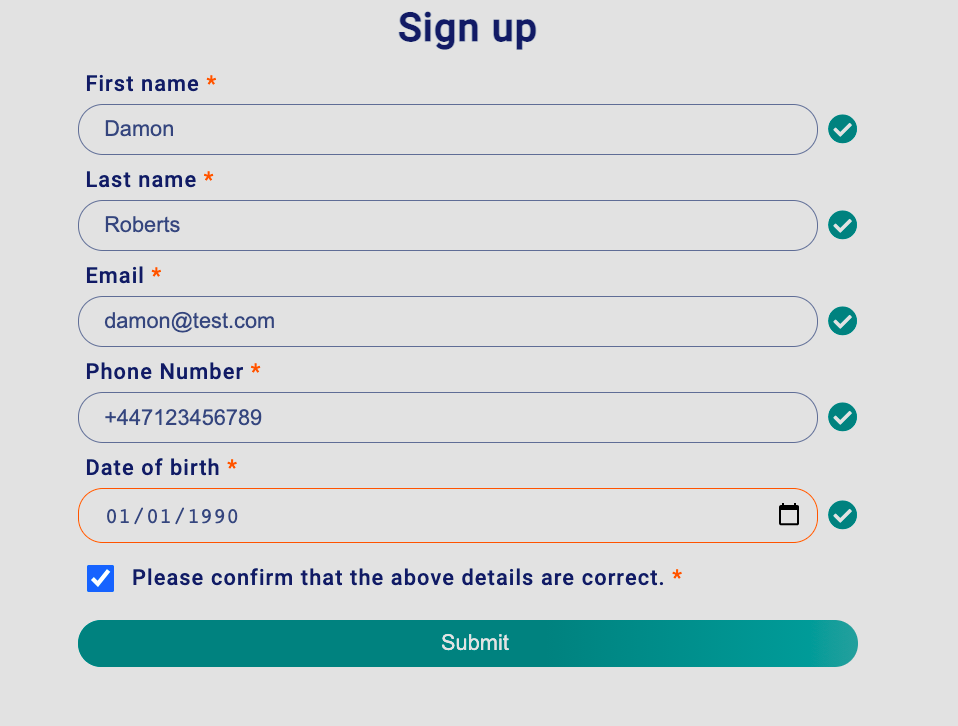
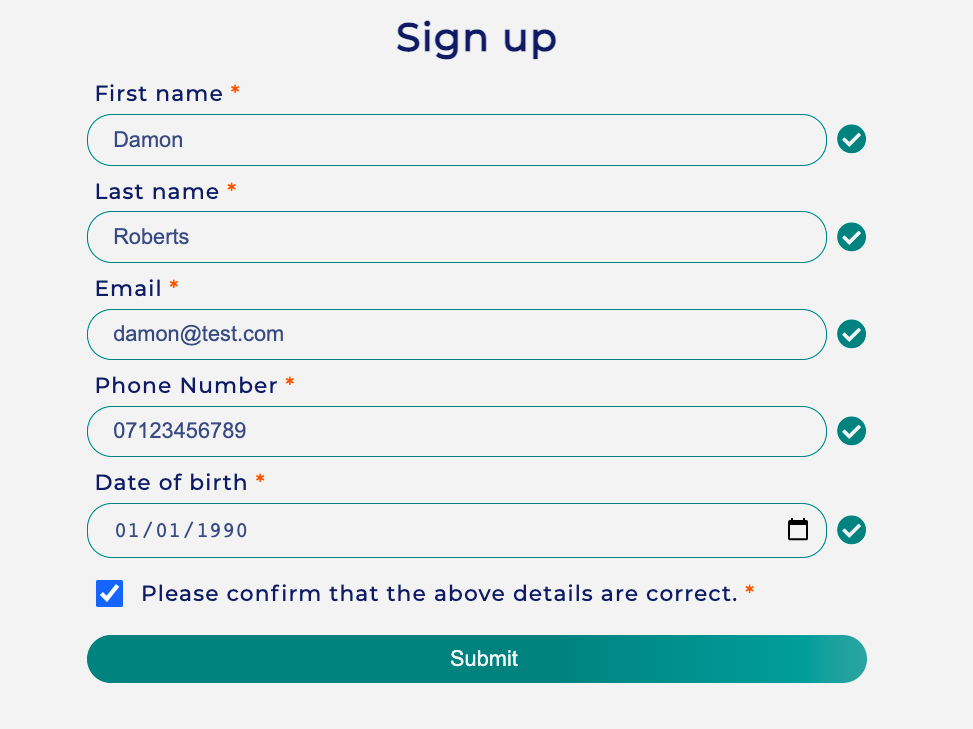
add border color for valid

diff --git a/src/components/form/form.js b/src/components/form/form.js
@@ -105,6 +105,18 @@ const Form = (props) => {
     return final;
   }
 
+  const checkValidValue = (el) => {
+    let successClass;
+    if (valid[el] === "tick") {
+      successClass = "border-green"
+    } else if (valid[el] === "cross") {
+      successClass = "border-red"
+    } else {
+      successClass = null;
+    }
+    return successClass;
+  }
+
   const displayForm = FormContent.map((e, i) => {
     return (
       <Fr key = {i}>
@@ -121,6 +133,7 @@ const Form = (props) => {
           valid = {valid[e.element]}
           focusOut = {() => checkValidity(e.element)}
           alertContent = {handleAlertContent(e.title)}
+          validClass = {checkValidValue(e.element)}
         />
       </Fr>
     );

diff --git a/src/css/index.scss b/src/css/index.scss
@@ -1,5 +1,6 @@
 // Fonts
-@import url('https://fonts.googleapis.com/css2?family=Nunito+Sans:wght@300&family=Roboto:wght@500&display=swap');
+@import url('https://fonts.googleapis.com/css2?family=Dosis:wght@300&family=Montserrat:wght@500&display=swap');
+@import url('https://fonts.googleapis.com/css2?family=Inter:wght@700&display=swap');
 
 // Variables
 @import "variables/colors.scss";
@@ -14,6 +15,7 @@
 
 html {
   font-size: 11px;
+  letter-spacing: 1.2px;
 }
 
 @media (max-width: 1200px) {

diff --git a/src/components/form/form-type.js b/src/components/form/form-type.js
@@ -7,7 +7,7 @@ const FormType = (props) => {
       <label htmlFor={props.for} aria-required>{props.label}<span className="sign-up-form-required"> *</span></label>
       <div className="form-input">
         <input
-          className={`${props.activeClass}`}
+          className={`${props.activeClass} ${props.validClass}`}
           placeholder={props.placeholder}
           type={props.type} 
           name={props.name} 

diff --git a/src/css/components/form/form.scss b/src/css/components/form/form.scss
@@ -14,6 +14,14 @@
       border: 2px solid $danger;
     }
 
+    .border-green {
+      border: 2px solid $secondary;
+    }
+
+    .border-red {
+      border: 2px solid $warning;
+    }
+
     &-required {
       color: $danger;
     }

diff --git a/src/css/variables/fonts.scss b/src/css/variables/fonts.scss
@@ -1,2 +1,3 @@
-$text-font: 'Nunito Sans', sans-serif;
-$headers-font: 'Roboto', sans-serif;
+$text-font: 'Dosis', sans-serif;
+$headers-font: 'Montserrat', sans-serif;
+$third-font: 'Inter', sans-serif;

diff --git a/src/css/variables/colors.scss b/src/css/variables/colors.scss
@@ -1,6 +1,6 @@
-$bg-color: #E2E2E2;
+$bg-color: #f3f3f3;
 $primary: #0A2463;
 $secondary: #107E7D;
 $third: #50808E;
 $danger: #F26419;
-$warning: rgb(255, 146, 146);
+$warning: rgb(255, 83, 83);

diff --git a/src/css/components/alerts/alert.scss b/src/css/components/alerts/alert.scss
@@ -7,7 +7,7 @@
   margin-bottom: 1rem;
   
   p {
-    font-family: Arial, Helvetica, sans-serif;
+    font-family: $third-font;
     font-weight: 700;
   }
 }

diff --git a/src/css/components/header/header.scss b/src/css/components/header/header.scss
@@ -4,4 +4,8 @@
   align-items: center;
   flex-direction: column;
   font-size: 2rem;
+
+  p {
+    opacity: 0.6;
+  }
 }

diff --git a/src/css/containers/page.scss b/src/css/containers/page.scss
@@ -1,3 +1,3 @@
 .page-container {
-  margin: 2rem 5rem;
+  margin: 4rem 5rem 2rem 5rem;
 }
